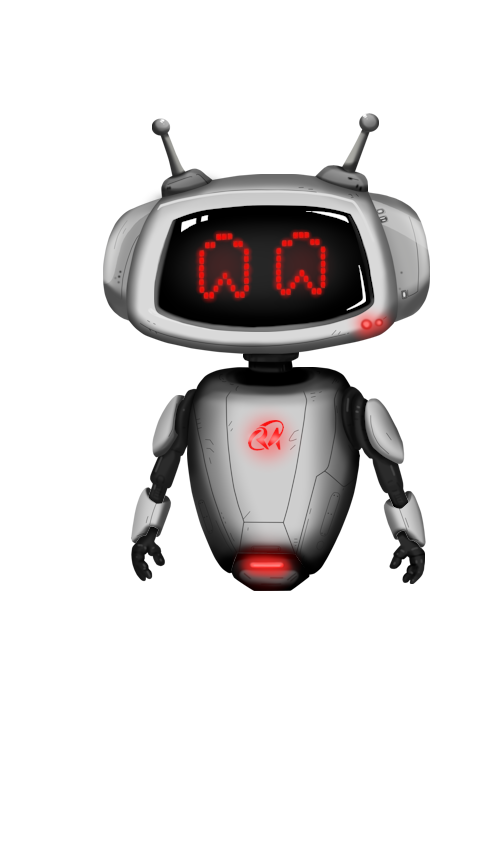
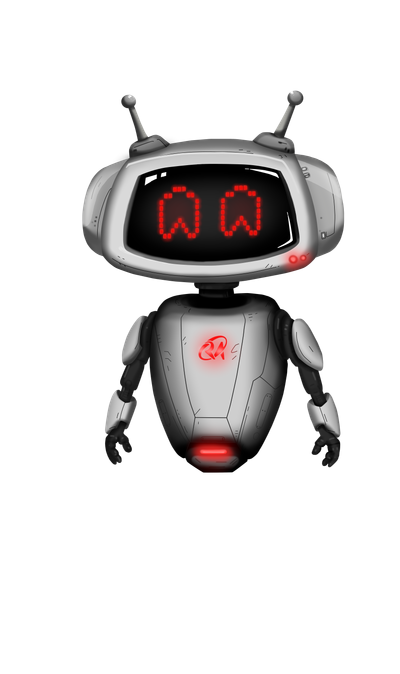
feat: convert images to webp, update all references

diff --git a/components/past-events.tsx b/components/past-events.tsx
@@ -6,32 +6,32 @@ import { ChevronLeft, ChevronRight, X } from "lucide-react"
 
 const slides = [
   {
-    src: "/past_events/2023rob1.JPG",
+    src: "/past_events/2023rob1.webp",
     alt: "RoboTalk 2023 — photo 1",
     caption: "RoboTalk 2023",
   },
   {
-    src: "/past_events/2023rob2.JPG",
+    src: "/past_events/2023rob2.webp",
     alt: "RoboTalk 2023 — photo 2",
     caption: "RoboTalk 2023",
   },
   {
-    src: "/past_events/2024rob1.JPG",
+    src: "/past_events/2024rob1.webp",
     alt: "RoboTalk 2024 — photo 1",
     caption: "RoboTalk 2024",
   },
   {
-    src: "/past_events/2024rob2.JPG",
+    src: "/past_events/2024rob2.webp",
     alt: "RoboTalk 2024 — photo 2",
     caption: "RoboTalk 2024",
   },
   {
-    src: "/past_events/2025rob1.jpg",
+    src: "/past_events/2025rob1.webp",
     alt: "RoboTalk 2025 — photo 1",
     caption: "RoboTalk 2025",
   },
   {
-    src: "/past_events/2025rob2.JPG",
+    src: "/past_events/2025rob2.webp",
     alt: "RoboTalk 2025 — photo 2",
     caption: "RoboTalk 2025",
   },

diff --git a/data/speakers.ts b/data/speakers.ts
@@ -12,7 +12,7 @@ export const speakers: Speaker[] = [
     id: "haris-ioannou",
     name: "Haris Ioannou",
     title: "AI Product Lead at Google · Tech Entrepreneur | Inventor",
-    photo: "/images/speakers/harris_ioannou.jpg",
+    photo: "/images/speakers/harris_ioannou.webp",
     bio: `Haris is an engineer, inventor and a tech entrepreneur. Leading the Gemini Audio portfolio at Google Cloud, driving 0-to-1 frontier model research into scaled enterprise solutions. He holds a MSc in Machine Learning from Columbia University in New York and a MSc and BSc in Electrical and Computer Engineering from National Technical University of Athens.
 
 Haris brings deep early-stage experience as a founder and technologist for multiple startups in HealthTech, Cybersecurity, and EdTech. He holds patents in robotics, is author of publications in machine learning and a founding member of ReGeneration, the largest internship program in Greece.

diff --git a/components/hero.tsx b/components/hero.tsx
@@ -14,7 +14,7 @@ export function Hero() {
       {/* Background image with dark overlay */}
       <div className="absolute inset-0" aria-hidden="true">
         <Image
-          src="/images/Robotalk2025-4.jpg"
+          src="/images/Robotalk2025-4.webp"
           alt=""
           fill
           className="object-cover"
